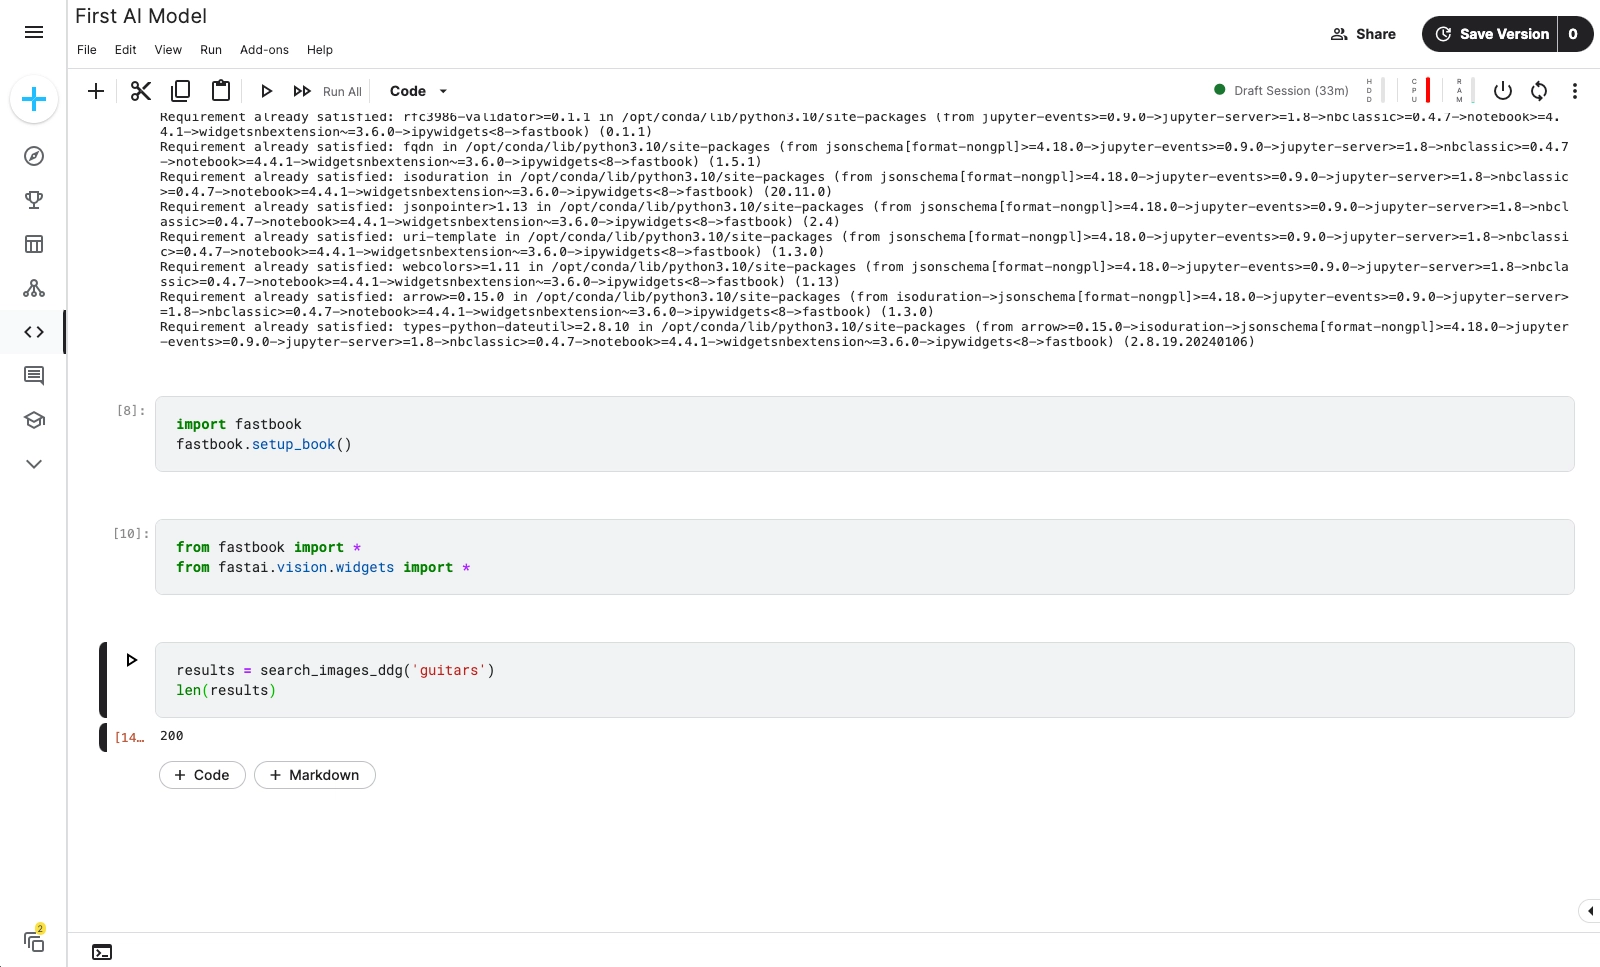
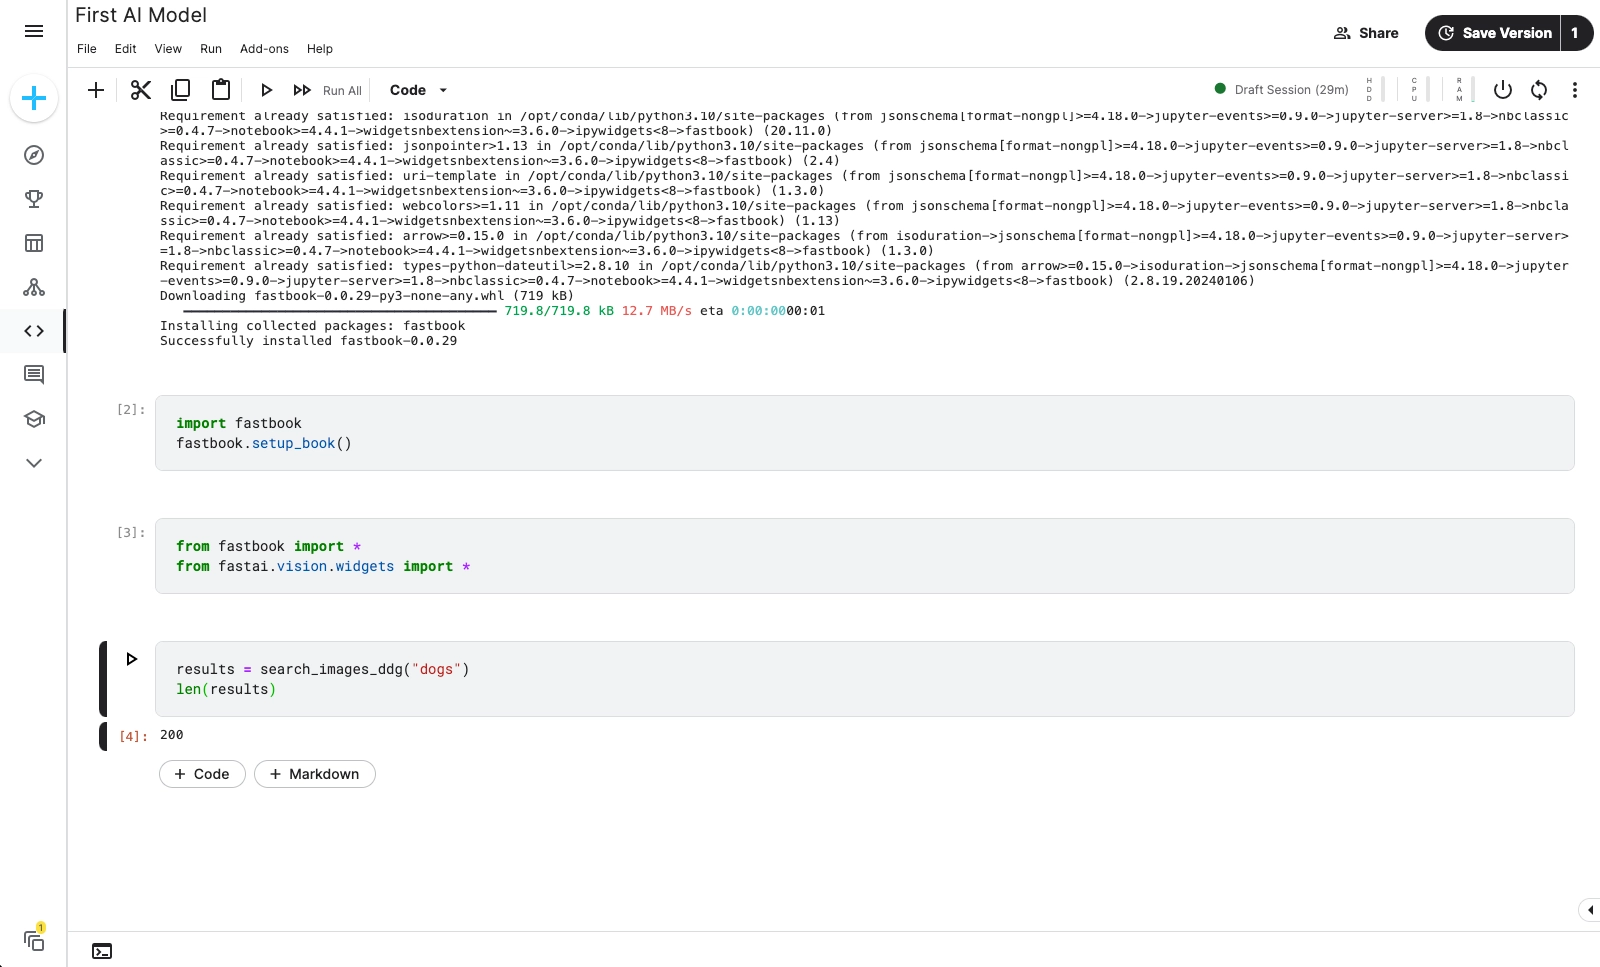
Redo article with dogs/cats model

diff --git a/client/components/ImageOverlay/index.tsx b/client/components/ImageOverlay/index.tsx
@@ -67,14 +67,28 @@ interface StyleProps {
 }
 
 const RootStyles = styled.div<StyleProps>`
-  background-color: ${({ currentTheme }) =>
-    currentTheme === DARK_THEME ? colors.black : colors.white};
+  backdrop-filter: blur(var(--space-xxsmall));
   bottom: 0;
-  position: absolute;
   left: 0;
+  position: fixed;
   right: 0;
   top: 0;
+  /* https://graffino.com/til/CjT2jrcLHP-how-to-fix-filter-blur-performance-issue-in-safari */
+  transform: translate3d(0, 0, 0);
   z-index: 10;
+
+  &::before {
+    backdrop-filter: blur(15px);
+    background-color: var(--body-bg-blur);
+    bottom: 0;
+    content: "";
+    left: 0;
+    opacity: 0.95;
+    position: absolute;
+    right: 0;
+    top: 0;
+    z-index: -1;
+  }
 
   > div {
     align-items: center;
